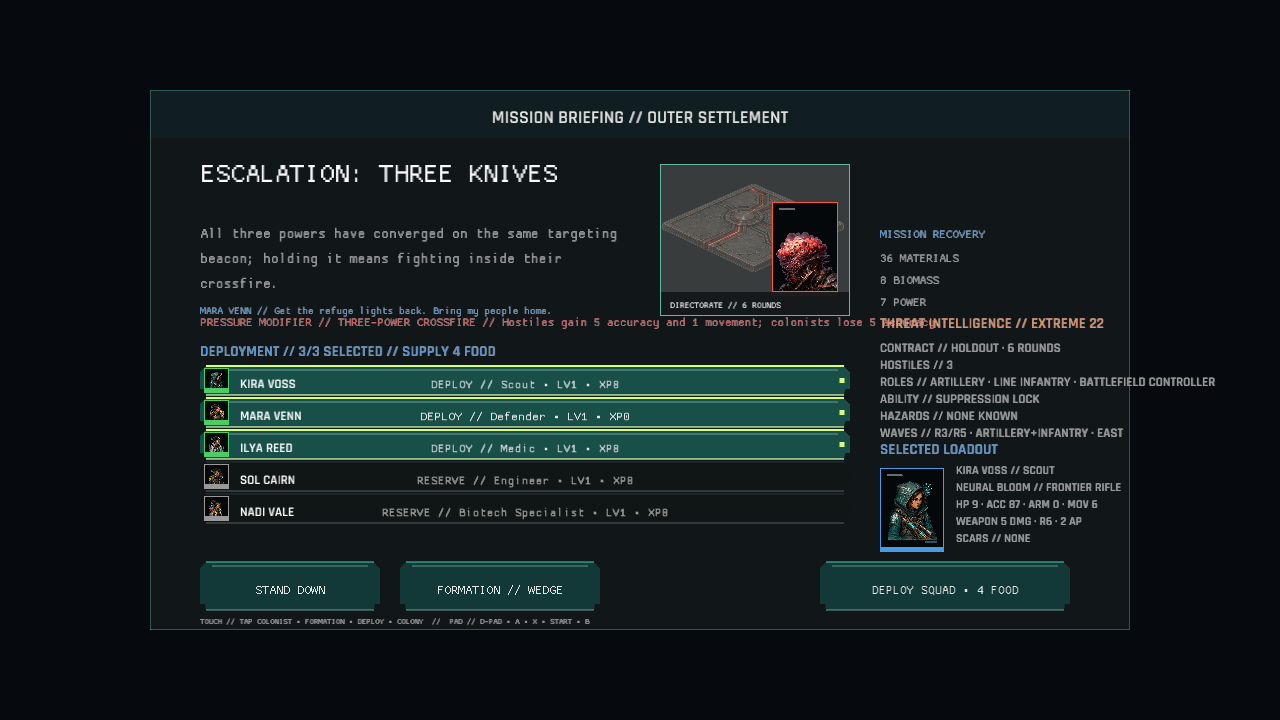
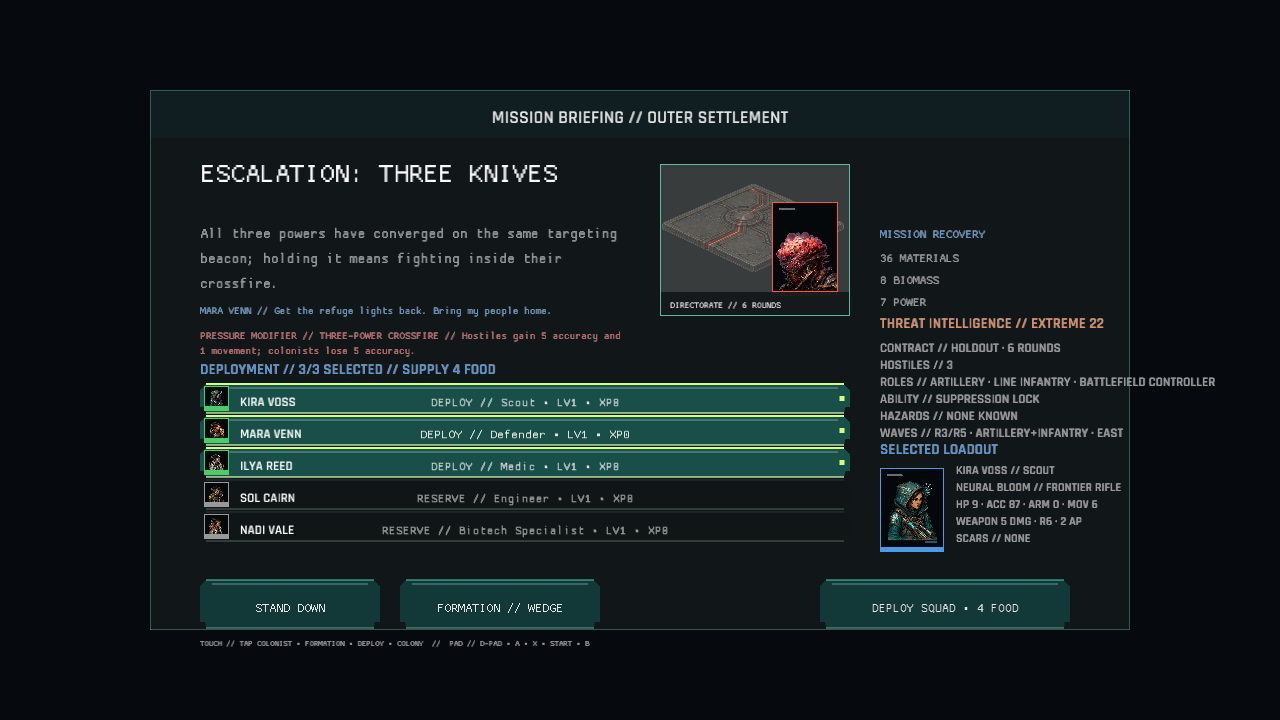
The crossfire stays on its side (briefing layout)
Escalation briefing pressure copy crossed the left content column and overwrote the threat-intelligence heading. Wrap the modifier inside a bounded left-column block, move the deployment rail below it, cover the shared bounds, refresh the canonical capture, and record the 1.203.0 no-schema-change checkpoint.

Changed region(s): [[0.1562, 0.4278, 0.7188, 0.9167], [0.625, 0.7639, 0.8438, 0.8861]]

diff --git a/src/ui.rs b/src/ui.rs
@@ -14,6 +14,10 @@ pub use crate::ui_action::UiAction;
 
 pub const LOGICAL_WIDTH: f32 = 1280.0;
 pub const LOGICAL_HEIGHT: f32 = 720.0;
+const BRIEFING_MODIFIER_X: f32 = 200.0;
+const BRIEFING_MODIFIER_Y: f32 = 326.0;
+const BRIEFING_MODIFIER_WIDTH: f32 = 430.0;
+const BRIEFING_MODIFIER_HEIGHT: f32 = 32.0;
 
 pub(crate) fn pointer_position(ui: &VirtualUi) -> Vec2 {
     pointer_position_for_capture(ui, macroquad_toolkit::capture::capture_requested("MIREXIS"))
@@ -147,6 +151,28 @@ pub(crate) fn draw_title(context: TitleDrawContext<'_>) -> Vec<UiAction> {
     crate::title_scene_ui::draw(context)
 }
 
+pub(crate) fn briefing_modifier_bounds() -> Rect {
+    Rect::new(
+        BRIEFING_MODIFIER_X,
+        BRIEFING_MODIFIER_Y,
+        BRIEFING_MODIFIER_WIDTH,
+        BRIEFING_MODIFIER_HEIGHT,
+    )
+}
+
+fn briefing_modifier_copy(mission: &MissionDef) -> String {
+    format!(
+        "{} // {} // {}",
+        if mission.operation_modifier.is_engine_effect() {
+            "ENGINE EFFECT"
+        } else {
+            "PRESSURE MODIFIER"
+        },
+        mission.operation_modifier.label(),
+        mission.operation_modifier.description()
+    )
+}
+
 pub fn draw_mission_briefing(
     data: &GameData,
     campaign: &CampaignState,
@@ -200,20 +226,16 @@ pub fn draw_mission_briefing(
     }
     draw_mission_vignette(data, mission, assets, visuals);
     if mission.operation_modifier != crate::data::OperationModifier::None {
-        draw_ui_text_ex(
-            &format!(
-                "{} // {} // {}",
-                if mission.operation_modifier.is_engine_effect() {
-                    "ENGINE EFFECT"
-                } else {
-                    "PRESSURE MODIFIER"
-                },
-                mission.operation_modifier.label(),
-                mission.operation_modifier.description()
-            ),
-            200.0,
-            326.0,
-            TextStyle::new(15.0, dark::NEGATIVE).params(),
+        let modifier = briefing_modifier_bounds();
+        draw_text_block(
+            &briefing_modifier_copy(mission),
+            modifier.x,
+            modifier.y,
+            modifier.w,
+            modifier.h,
+            13.0,
+            2.0,
+            dark::NEGATIVE,
         );
     }
     draw_ui_text_ex(
@@ -252,7 +274,7 @@ pub fn draw_mission_briefing(
     draw_ui_text_ex(
         "TOUCH // TAP COLONIST · FORMATION · DEPLOY · COLONY  //  PAD // D-PAD · A · X · START · B",
         200.0,
-        624.0,
+        646.0,
         TextStyle::new(10.0, dark::TEXT_DIM).params(),
     );
     actions

diff --git a/src/briefing_deployment_ui.rs b/src/briefing_deployment_ui.rs
@@ -10,6 +10,10 @@ use macroquad::prelude::*;
 use macroquad_toolkit::assets::AssetManager;
 use macroquad_toolkit::prelude::{dark, TextStyle};
 
+const DEPLOYMENT_HEADING_Y: f32 = 374.0;
+const DEPLOYMENT_ROW_Y: f32 = 384.0;
+const DEPLOYMENT_ACTION_Y: f32 = 580.0;
+
 fn deployment_row_layout(roster_len: usize) -> (f32, f32) {
     if roster_len <= 5 {
         return (32.0, 29.0);
@@ -30,11 +34,16 @@ fn deployment_button_label(selected_count: usize, food: i32, food_cost: i32) -> 
 
 pub(crate) fn deployment_row_bounds(roster_len: usize, index: usize) -> Rect {
     let (row_step, row_height) = deployment_row_layout(roster_len);
-    Rect::new(200.0, 366.0 + index as f32 * row_step, 650.0, row_height)
+    Rect::new(
+        200.0,
+        DEPLOYMENT_ROW_Y + index as f32 * row_step,
+        650.0,
+        row_height,
+    )
 }
 
 pub(crate) fn deploy_button_bounds() -> Rect {
-    Rect::new(820.0, 562.0, 250.0, 48.0)
+    Rect::new(820.0, DEPLOYMENT_ACTION_Y, 250.0, 48.0)
 }
 
 pub(crate) fn draw(
@@ -54,7 +63,7 @@ pub(crate) fn draw(
             selected_count, SQUAD_LIMIT, food_cost
         ),
         200.0,
-        356.0,
+        DEPLOYMENT_HEADING_Y,
         TextStyle::new(15.0, dark::ACCENT).params(),
     );
     for (index, character) in campaign.roster.iter().enumerate() {
@@ -107,7 +116,7 @@ pub(crate) fn draw(
         );
     }
     if button(
-        Rect::new(400.0, 562.0, 200.0, 48.0),
+        Rect::new(400.0, DEPLOYMENT_ACTION_Y, 200.0, 48.0),
         &format!("FORMATION // {}", formation.label()),
         true,
         mouse,
@@ -126,7 +135,7 @@ pub(crate) fn draw(
         actions.push(UiAction::DeployMission);
     }
     if button(
-        Rect::new(200.0, 562.0, 180.0, 48.0),
+        Rect::new(200.0, DEPLOYMENT_ACTION_Y, 180.0, 48.0),
         "STAND DOWN",
         true,
         mouse,

diff --git a/src/ui/tests.rs b/src/ui/tests.rs
@@ -112,3 +112,20 @@ fn end_phase_focus_bounds_stay_inside_the_command_rail() {
     assert!(button.bottom() <= panel.bottom());
     assert_eq!(button.h, 44.0);
 }
+
+#[test]
+fn briefing_modifier_copy_stays_inside_the_left_briefing_column() {
+    let data = crate::data::GameData::load().expect("embedded data loads");
+    let mut mission = data.mission.clone();
+    mission.operation_modifier = crate::data::OperationModifier::EscalationCrossfire;
+
+    let copy = briefing_modifier_copy(&mission);
+    assert!(copy.starts_with("PRESSURE MODIFIER // THREE-POWER CROSSFIRE //"));
+    assert!(copy.contains("Hostiles gain 5 accuracy"));
+
+    let modifier = briefing_modifier_bounds();
+    assert_eq!(modifier.right(), 630.0);
+    assert_eq!(modifier.bottom(), 358.0);
+    assert!(modifier.right() < 660.0);
+    assert!(modifier.bottom() < crate::briefing_deployment_ui::deployment_row_bounds(5, 0).y);
+}

diff --git a/src/briefing_deployment_ui/tests.rs b/src/briefing_deployment_ui/tests.rs
@@ -13,16 +13,16 @@ fn full_recruited_roster_stays_above_briefing_actions() {
     assert_eq!((default_step, default_height), (32.0, 29.0));
 
     let (step, height) = deployment_row_layout(7);
-    let last_row_bottom = 366.0 + 6.0 * step + height;
+    let last_row_bottom = 384.0 + 6.0 * step + height;
     assert!(step < default_step);
-    assert!(last_row_bottom <= 557.0);
+    assert!(last_row_bottom <= 578.0);
 }
 
 #[test]
 fn shared_deployment_bounds_match_the_rendered_controls() {
-    assert_eq!(deploy_button_bounds(), Rect::new(820.0, 562.0, 250.0, 48.0));
+    assert_eq!(deploy_button_bounds(), Rect::new(820.0, 580.0, 250.0, 48.0));
     assert_eq!(
         deployment_row_bounds(5, 0),
-        Rect::new(200.0, 366.0, 650.0, 29.0)
+        Rect::new(200.0, 384.0, 650.0, 29.0)
     );
 }

diff --git a/docs/verification/FINAL_CAPTURE_INVENTORY.md b/docs/verification/FINAL_CAPTURE_INVENTORY.md
@@ -30,6 +30,7 @@ Manifest: `scripts/capture_ui.ps1`
 - `ui_first_hour_dialogue.png`: required first-hour conversations focus the visible CONTINUE control after the target speaker opens.
 - `ui_first_hour_promise.png`: the promise beat distinguishes a hardened outer route from a second-operation breach and focuses CONTINUE CAMPAIGN before continuation.
 - `ui_first_hour_operations.png`: guided colony handoff keeps the next mission briefing and active preparation visible inside the open Operations drawer.
+- `ui_escalation_operation.png`: the wrapped pressure modifier stays inside the briefing's left column without colliding with threat intelligence or deployment controls.
 - `ui_battle_log.png` and `ui_phase_replay.png`: attack history and hostile replay beats use readable display names, name HIT/MISS outcomes with immediate damage consequences, and the battle log distinguishes ability, recovery, status, objective, and cover events with matching counts on each filter.
 - `ui_debrief.png`: the operation result keeps rewards and squad consequences visible while the notification stack names each automatic technique learned by a readable colonist name.
 - `ui_finale_debrief.png`: the completed-campaign title, bounded legacy summary, operation result, and reward card remain separated and readable.
@@ -59,7 +60,7 @@ Manifest: `scripts/capture_ui.ps1`
[8 lines of base64/hex data omitted]

diff --git a/docs/PHASE_1_HARDENING.md b/docs/PHASE_1_HARDENING.md
@@ -31,7 +31,7 @@ Status: automated and internal verification complete; external playtests pending
 
 ## Automated verification baseline
 
-- 498 Mirexis unit tests pass, including deployment-row affordance coverage for full,
+- 499 Mirexis unit tests pass, including deployment-row affordance coverage for full,
   minimum, and recovering squads, construction availability coverage for unlocks,
   materials, and unique projects, effective repair-cost affordability coverage, and
   tactical equipment cancellation coverage, invalid-target persistence coverage, and
@@ -57,8 +57,8 @@ Status: automated and internal verification complete; external playtests pending
   label coverage, facility-upgrade blocker-label coverage, first-hour investment
   material-gate label coverage, character-event food-gate label coverage, Build Mode
   construction-blocker label coverage, roster equipment-row geometry coverage, finale
-  debrief summary coverage, completed-campaign debrief voice coverage, and bounded
-  ending-register coverage.
+  debrief summary coverage, completed-campaign debrief voice coverage, bounded
+  ending-register coverage, and briefing pressure geometry coverage.
 - External asset-registry and Rust source-size gates pass.
 - `publish.ps1` passes without parameters for Windows and WebGL and deploys to preview.
 - The canonical set contains 100 audited 1280×720 scenes, including the first-hour
@@ -67,8 +67,8 @@ Status: automated and internal verification complete; external playtests pending
   debrief goal/result layering, fielded-versus-reserve squad disclosure including recruited
   fielded colonists, recruited-roster list coverage, XP and automatic technique-learning
   disclosure,
-  enemy-phase readiness and replay-skip transitions, and forecast/first-hour layout changes
-  replace their affected images.
+  enemy-phase readiness and replay-skip transitions, forecast/first-hour layout changes,
+  and the wrapped escalation pressure modifier replace their affected images.
   The three ending captures also open the Operations drawer so each path-specific identity
   card and bounded colony legacy register is visible in the canonical evidence.
 

diff --git a/TECHNICAL_DESIGN.md b/TECHNICAL_DESIGN.md
@@ -2,7 +2,7 @@
 
 Status: systems-rich tech demo; playable-game refinement in progress
 Current production target: cohesive first-hour playable build
-Save/content version: 1.202.0
+Save/content version: 1.203.0
 Target platforms: Windows and browser/WASM
 Runtime: Rust 2021, Macroquad, macroquad-toolkit
 
@@ -978,6 +978,7 @@ Migration coverage:
 | 1.200.0 | Roster equipment rows now clear the footer instruction baseline across the full catalog; no new save fields |
 | 1.201.0 | Finale debrief legacy summaries now use bounded readable lines and suppress early-operation guidance after campaign completion; no new save fields |
 | 1.202.0 | Ending captures now open the Operations drawer and its colony legacy register uses seven bounded rows beneath each path-specific identity card; no new save fields |
+| 1.203.0 | Escalation briefing pressure modifiers now wrap inside the left briefing column and keep the deployment rail below the copy; no new save fields |
 
 Every future schema bump must migrate the immediately previous version and add a
 fixture test. Validate saved content IDs before adding content removal or renaming.

diff --git a/docs/verification/UI_GRAPHICS_ACCEPTANCE_MATRIX.md b/docs/verification/UI_GRAPHICS_ACCEPTANCE_MATRIX.md
@@ -77,7 +77,7 @@ Each row must have a post-overhaul PNG in the final capture directory and pass t
 | sol_evolution | Gene lab | No recruit-specific evolved portrait/sprite cue | `ui_sol_evolution.png` | PASS |
 | nadi_evolution | Gene lab | No recruit-specific evolved portrait/sprite cue | `ui_nadi_evolution.png` | PASS |
 | escalation | Colony | Campaign visual evolution too weak | `ui_escalation.png` | PASS |
-| escalation_operation | Briefing | Same text modal language | `ui_escalation_operation.png` | PASS |
+| escalation_operation | Briefing | Pressure modifier copy crossed the split briefing columns and collided with threat intelligence | `ui_escalation_operation.png` | PASS |
 | escalation_response | Campaign event | Choice identity mainly textual | `ui_escalation_response.png` | PASS |
 | mirexis | Colony | Late-game hybridisation too weak | `ui_mirexis.png` | PASS |
 | mirexis_path | Campaign choice | Path identity mainly textual | `ui_mirexis_path.png` | PASS |

diff --git a/docs/PHASE_1_ACCEPTANCE_MATRIX.md b/docs/PHASE_1_ACCEPTANCE_MATRIX.md
@@ -1,7 +1,7 @@
 # Phase 1 Acceptance Matrix
 
 Status: implementation evidence audited; observed-session gates pending
-Audit baseline: save/content 1.202.0, validated and committed with this matrix
+Audit baseline: save/content 1.203.0, validated and committed with this matrix
 
 This matrix maps every Phase 1 workstream and definition-of-done requirement to
 authoritative evidence. `VERIFIED` means code, tests, captures, or an operator-run path
